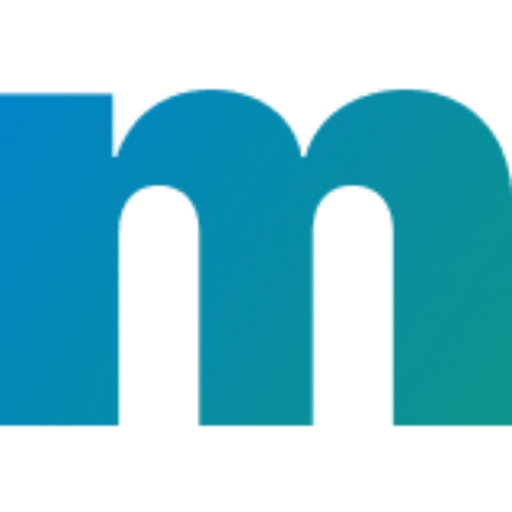
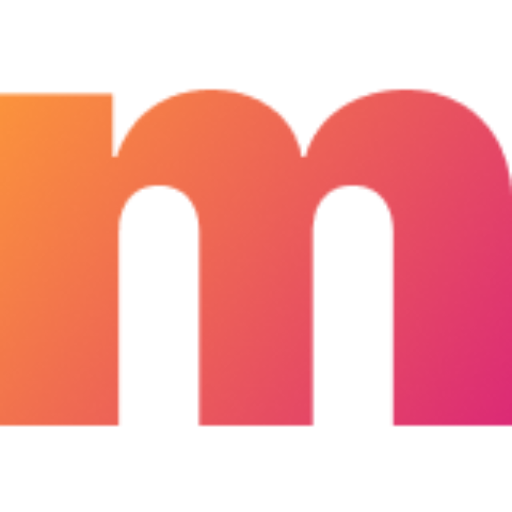
Updated styling, structure and theme

diff --git a/components/Card.jsx b/components/Card.jsx
@@ -1,32 +1,44 @@
 import Link from 'next/link'
+import Image from 'next/image'
 import { documentToReactComponents } from '@contentful/rich-text-react-renderer'
-
-function handleBackgroundColor (index) {
-  let bg = ''
-
-  switch (true) {
-    case ((index + 1) % 2 === 0):
-      bg = 'from-orange-400 to-pink-600'
-      break
-    default:
-      bg = 'from-cyan-400 to-blue-600'
-  }
-
-  return bg
-}
+import { getFirstLetter } from '@/utils/helper'
 
 export default function Card ({ posts }) {
   return (
-    <ol className='grid grid-cols-1 gap-4'>
+    <ol className='grid grid-cols-1 gap-10 md:gap-4 lg:gap-8 md:grid-cols-2 xl:grid-cols-3 '>
       {posts.map((post, index) => (
-        <li
-          key={post.slug}
-          className={`flex flex-col justify-center items-center min-h-[343px] px-6 py-8 rounded-xl bg-gradient-to-br ${handleBackgroundColor(index)}`}
-        >
-          <Link href={`/blog/${post.slug}`}>
-            <a className='inline-block mb-4 text-4xl font-bold text-white'><h2>{post.title}</h2></a>
-          </Link>
-          <div className='text-base leading-tight text-white'>{documentToReactComponents(post.excerpt.json)}</div>
+        <li key={post.slug}>
+          <div>
+            <Link href={`/blog/${post.slug}`}>
+              <a className='relative flex flex-col items-start justify-center p-6 bg-gray-900 rounded-2xl'>
+                <div className='flex items-end'>
+                  <span className='relative text-5xl font-bold lg:text-6xl'>
+                    <span>{getFirstLetter(post.thumbnail.title)}</span>
+                    <span>{getFirstLetter(post.thumbnail.title).toLowerCase()}</span>
+                  </span>
+                </div>
+                <div className='mx-auto w-52'>
+                  <Image
+                    src={post.thumbnail.url}
+                    width={post.thumbnail.width}
+                    height={post.thumbnail.height}
+                    className='w-full h-full'
+                  />
+                </div>
+                <div className='block w-full text-5xl font-bold text-center lg:text-6xl'>{post.thumbnail.title}</div>
+              </a>
+            </Link>
+          </div>
+          <div className='mt-4'>
+            <Link href={`/blog/${post.slug}`}>
+              <a className='inline-block'>
+                <h2 className='inline-block text-3xl font-bold leading-tight'>{post.title}</h2>
+              </a>
+            </Link>
+            <div className='mt-2 text-sm'>
+              {documentToReactComponents(post.excerpt.json)}
+            </div>
+          </div>
         </li>
       ))}
     </ol>

diff --git a/components/Header.jsx b/components/Header.jsx
@@ -5,19 +5,19 @@ export default function Header ({ children }) {
     <header className='flex items-center justify-between mt-4 mb-8'>
       <Link href='/'>
         <a className='flex items-center'>
-          <svg className='w-10 h-full' viewBox='0 0 123 80' fill='none' xmlns='http://www.w3.org/2000/svg'>
-            <path d='M0.948154 80H29.1754V34.1818C29.1754 27.3295 32.755 23.1364 38.5845 23.1364C44.4141 23.1364 48.1982 27.3295 48.1982 34.1818V80H75.1982V34.1818C75.1982 27.3295 78.7777 23.1364 84.6072 23.1364C90.4368 23.1364 94.2209 27.3295 94.2209 34.1818V80H122.448V27.0227C122.448 10.9148 112.119 0.431819 97.0845 0.431819C85.4254 0.431819 76.0163 6.77272 73.3572 16.3864H72.5391C70.9027 6.77272 62.1072 0.431819 51.0618 0.431819C40.1697 0.431819 31.8345 6.56818 28.5618 16.3864H27.7436V1.45454H0.948154V80Z' fill='url(#paint0_linear)' />
+          <svg className='w-10 h-full' viewBox='0 0 160 105' fill='none' xmlns='http://www.w3.org/2000/svg'>
+            <path d='M0 105H37.1717V44.5373C37.1717 35.4949 41.8855 29.9614 49.5623 29.9614C57.2391 29.9614 62.2222 35.4949 62.2222 44.5373V105H97.7778V44.5373C97.7778 35.4949 102.492 29.9614 110.168 29.9614C117.845 29.9614 122.828 35.4949 122.828 44.5373V105H160V35.09C160 13.8335 146.397 0 126.599 0C111.246 0 98.8552 8.3676 95.3535 21.054H94.2761C92.1212 8.3676 80.5387 0 65.9933 0C51.6498 0 40.6734 8.09768 36.3636 21.054H35.2862V1.34961H0V105Z' fill='url(#paint0_linear)' />
             <defs>
-              <linearGradient id='paint0_linear' x1='2' y1='2' x2='124' y2='87.5' gradientUnits='userSpaceOnUse'>
-                <stop stopColor='#0284C7' />
-                <stop offset='0.987579' stopColor='#0D9488' />
+              <linearGradient id='paint0_linear' x1='1.38503' y1='2.0694' x2='162.264' y2='114.582' gradientUnits='userSpaceOnUse'>
+                <stop stopColor='#FB923C' />
+                <stop offset='0.987579' stopColor='#DB2777' />
               </linearGradient>
             </defs>
           </svg>
         </a>
       </Link>
       <Link href='/'>
-        <a className='text-lg font-medium text-gray-600 xl:hover:text-gray-900'>About</a>
+        <a className='text-lg font-medium'>About</a>
       </Link>
     </header>
   )

diff --git a/tailwind.config.js b/tailwind.config.js
@@ -4,7 +4,7 @@ const colors = require('tailwindcss/colors')
 module.exports = {
   mode: 'jit',
   purge: ['./pages/**/*.{js,ts,jsx,tsx}', './components/**/*.{js,ts,jsx,tsx}'],
-  darkMode: false, // or 'media' or 'class'
+  darkMode: 'class',
   theme: {
     extend: {
       maxWidth: {
@@ -14,11 +14,16 @@ module.exports = {
         sans: ['Inter var', ...defaultTheme.fontFamily.sans]
       },
       colors: {
+        gray: colors.trueGray,
         orange: colors.orange,
         pink: colors.pink,
         lime: colors.lime,
         emerald: colors.emerald,
-        cyan: colors.cyan
+        cyan: colors.cyan,
+        indigo: colors.indigo,
+        purple: colors.purple,
+        rose: colors.rose,
+        'light-blue': colors.lightBlue
       }
     }
   },

diff --git a/pages/blog/[slug].jsx b/pages/blog/[slug].jsx
@@ -1,5 +1,5 @@
 import { documentToReactComponents } from '@contentful/rich-text-react-renderer'
-import { getBlogPosts, getBlogPost } from '@/lib/queries'
+import { getBlogPosts, getBlogPost } from '@/utils/queries'
 
 export async function getStaticPaths () {
   const { blogPostCollection } = await getBlogPosts()
@@ -30,7 +30,7 @@ export default function BlogPost ({ post }) {
   return (
     <>
       <h1 className='text-5xl'>{post.title}</h1>
-      <div>{documentToReactComponents(post.body.json)}</div>
+      <div>{documentToReactComponents(post.content.json)}</div>
     </>
   )
 }

diff --git a/utils/queries.js b/utils/queries.js
@@ -14,7 +14,7 @@ export async function getBlogPost (slug) {
       blogPostCollection(where: {slug: $slug}) {
         items {
           title
-          body {
+          content {
             json
           }
           slug
@@ -31,6 +31,13 @@ export async function getBlogPosts () {
       blogPostCollection {
         items {
           title
+          thumbnail {
+            url
+            width
+            height
+            title
+            description
+          }
           excerpt {
             json
           }

diff --git a/pages/_document.js b/pages/_document.js
@@ -1,0 +1,18 @@
+import React from 'react'
+import Document, { Html, Head, Main, NextScript } from 'next/document'
+
+class MyDocument extends Document {
+  render () {
+    return (
+      <Html>
+        <Head />
+        <body className='text-black bg-white dark:bg-black dark:text-white'>
+          <Main />
+          <NextScript />
+        </body>
+      </Html>
+    )
+  }
+}
+
+export default MyDocument

diff --git a/pages/_app.js b/pages/_app.js
@@ -1,11 +1,14 @@
 import 'tailwindcss/tailwind.css'
+import { ThemeProvider } from 'next-themes'
 import Layout from '@/components/Layout'
 
 function MyApp ({ Component, pageProps }) {
   return (
-    <Layout>
-      <Component {...pageProps} />
-    </Layout>
+    <ThemeProvider attribute='class'>
+      <Layout>
+        <Component {...pageProps} />
+      </Layout>
+    </ThemeProvider>
   )
 }
 

diff --git a/components/Layout.jsx b/components/Layout.jsx
@@ -2,7 +2,7 @@ import Header from './Header'
 
 export default function Layout ({ children }) {
   return (
-    <article className='p-4'>
+    <article className='max-w-sm p-4 mx-auto md:max-w-full lg:px-8 lg:pb-8 lg:max-w-8xl'>
       <Header />
       <section>
         {children}

diff --git a/pages/index.js b/pages/index.js
@@ -1,6 +1,6 @@
 import Head from 'next/head'
 import Card from '@/components/Card'
-import { getBlogPosts } from '@/lib/queries'
+import { getBlogPosts } from '@/utils/queries'
 
 export async function getStaticProps () {
   const { blogPostCollection } = await getBlogPosts()

diff --git a/utils/helper.js b/utils/helper.js
@@ -1,0 +1,7 @@
+export function getFirstWord (string) {
+  return string.split(' ')[0]
+}
+
+export function getFirstLetter (string) {
+  return string.charAt(0)
+}

diff --git a/next.config.js b/next.config.js
@@ -1,3 +1,6 @@
 module.exports = {
-  pageExtensions: ['jsx', 'js']
+  pageExtensions: ['jsx', 'js'],
+  images: {
+    domains: ['images.ctfassets.net']
+  }
 }
